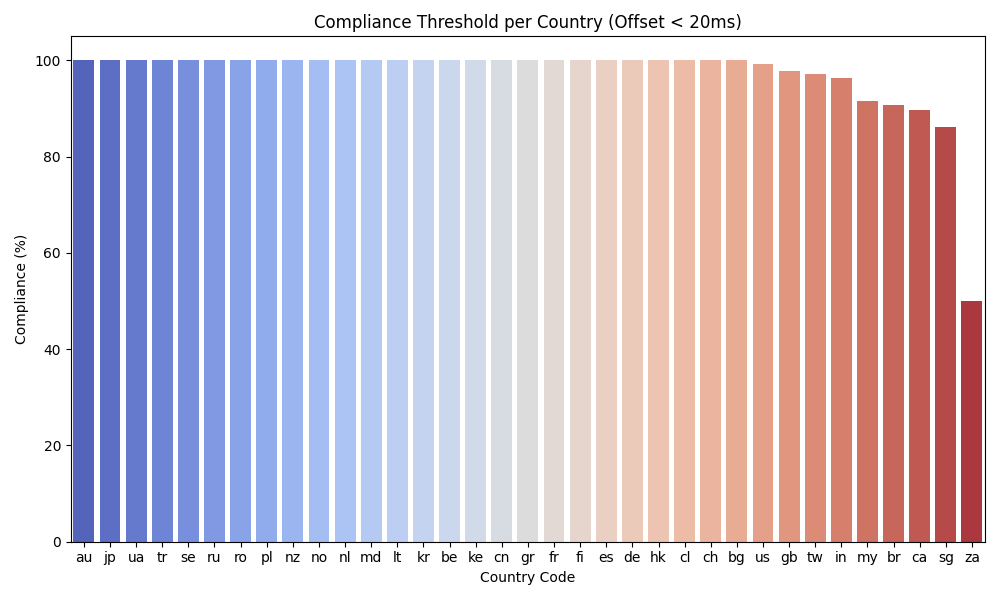
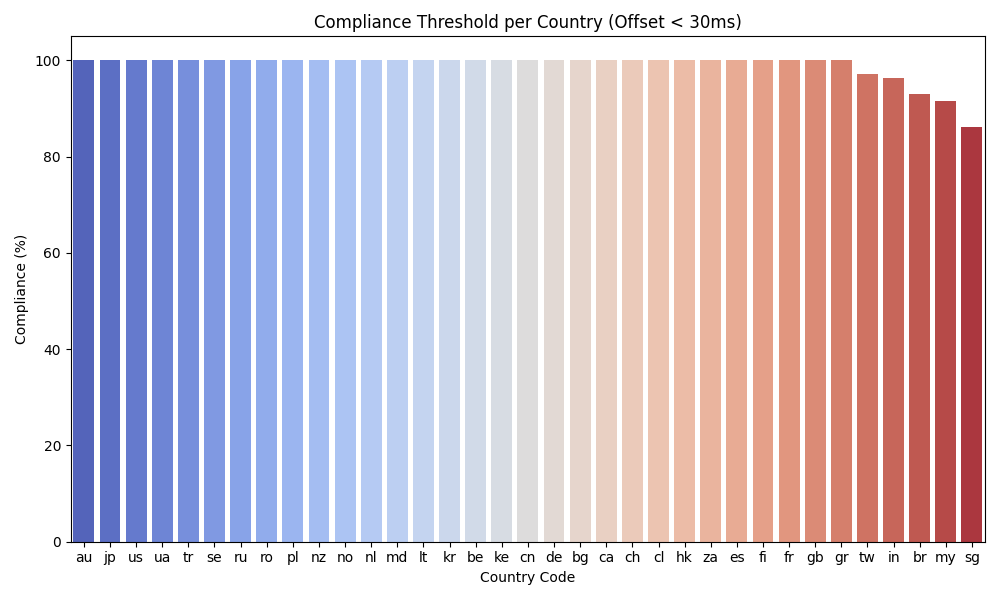
update ntp_analysis.py and plots

diff --git a/ntp_analysis.py b/ntp_analysis.py
@@ -25,9 +25,9 @@ Data Source:
 """
 
 # --- Threshold Parameters ---
-THRESHOLD_OFFSET = 0.020   # 20ms offset compliance
-THRESHOLD_JITTER = 0.002   # 2ms jitter compliance
-THRESHOLD_RTT = 200        # 200ms RTT compliance
+THRESHOLD_OFFSET = 0.030   # 30ms offset compliance
+THRESHOLD_JITTER = 0.003   # 3ms jitter compliance
+THRESHOLD_RTT = 300        # 300ms RTT compliance
 
 # Load CSV
 df = pd.read_csv("ntp.txt")
